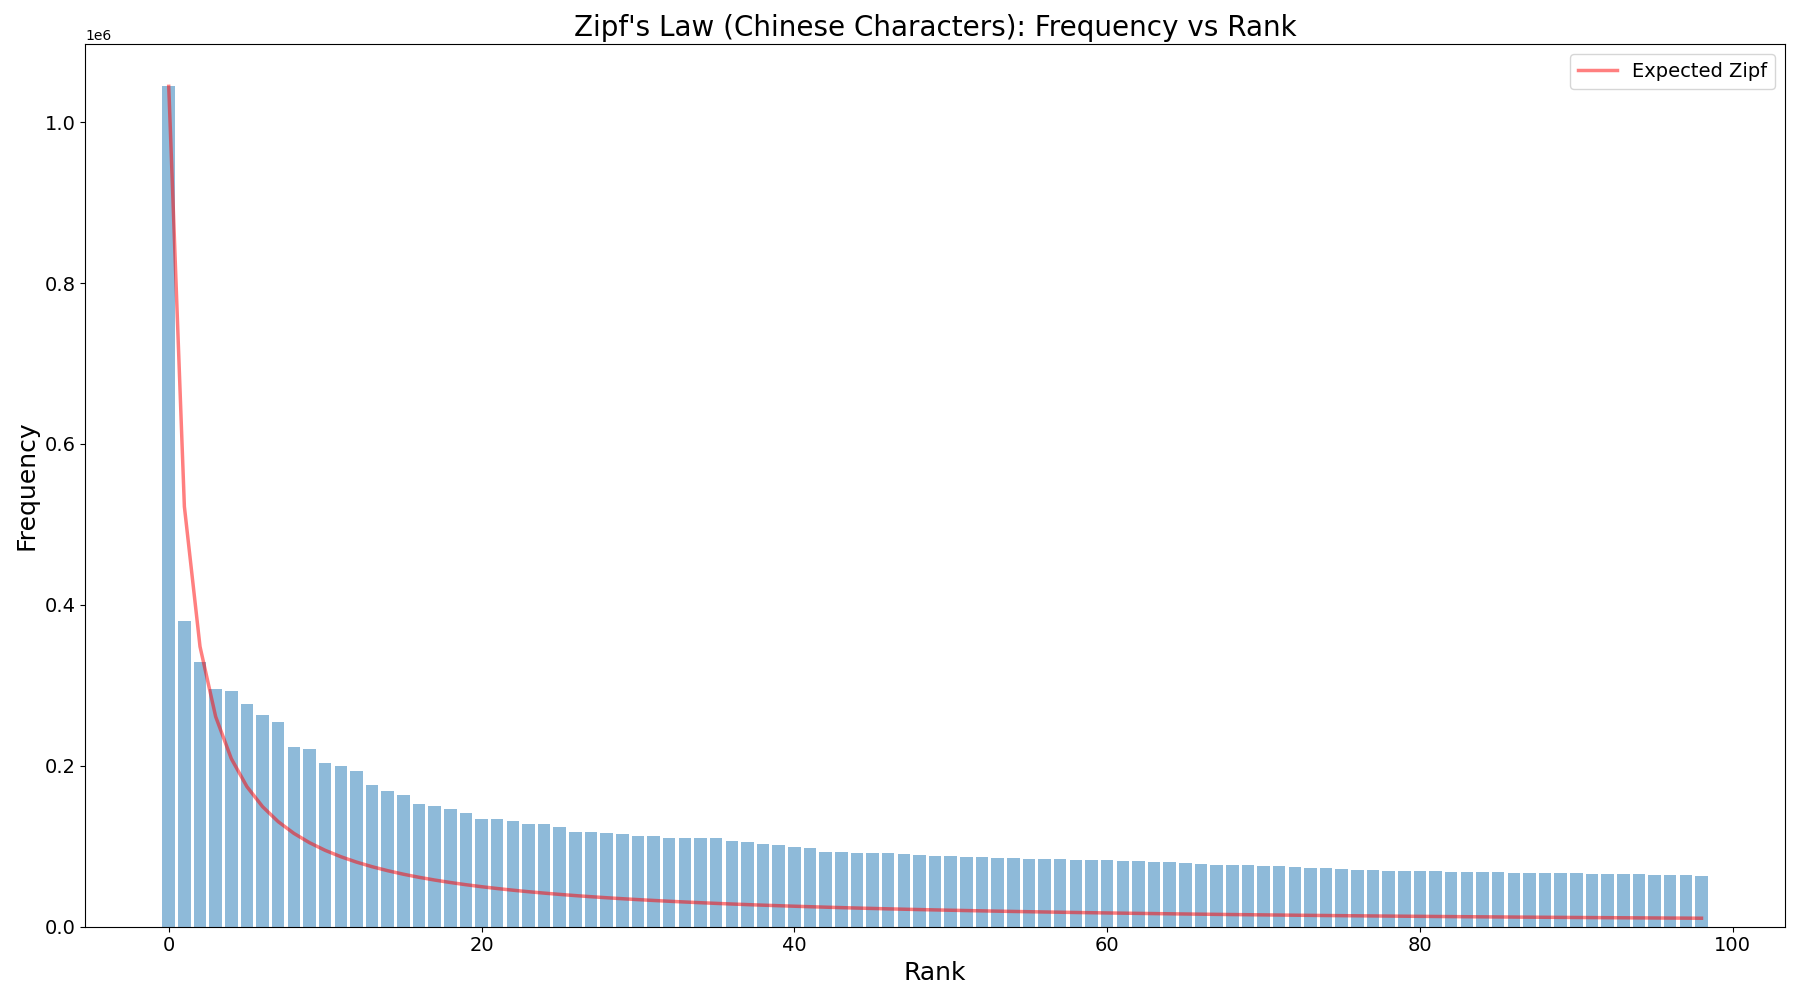
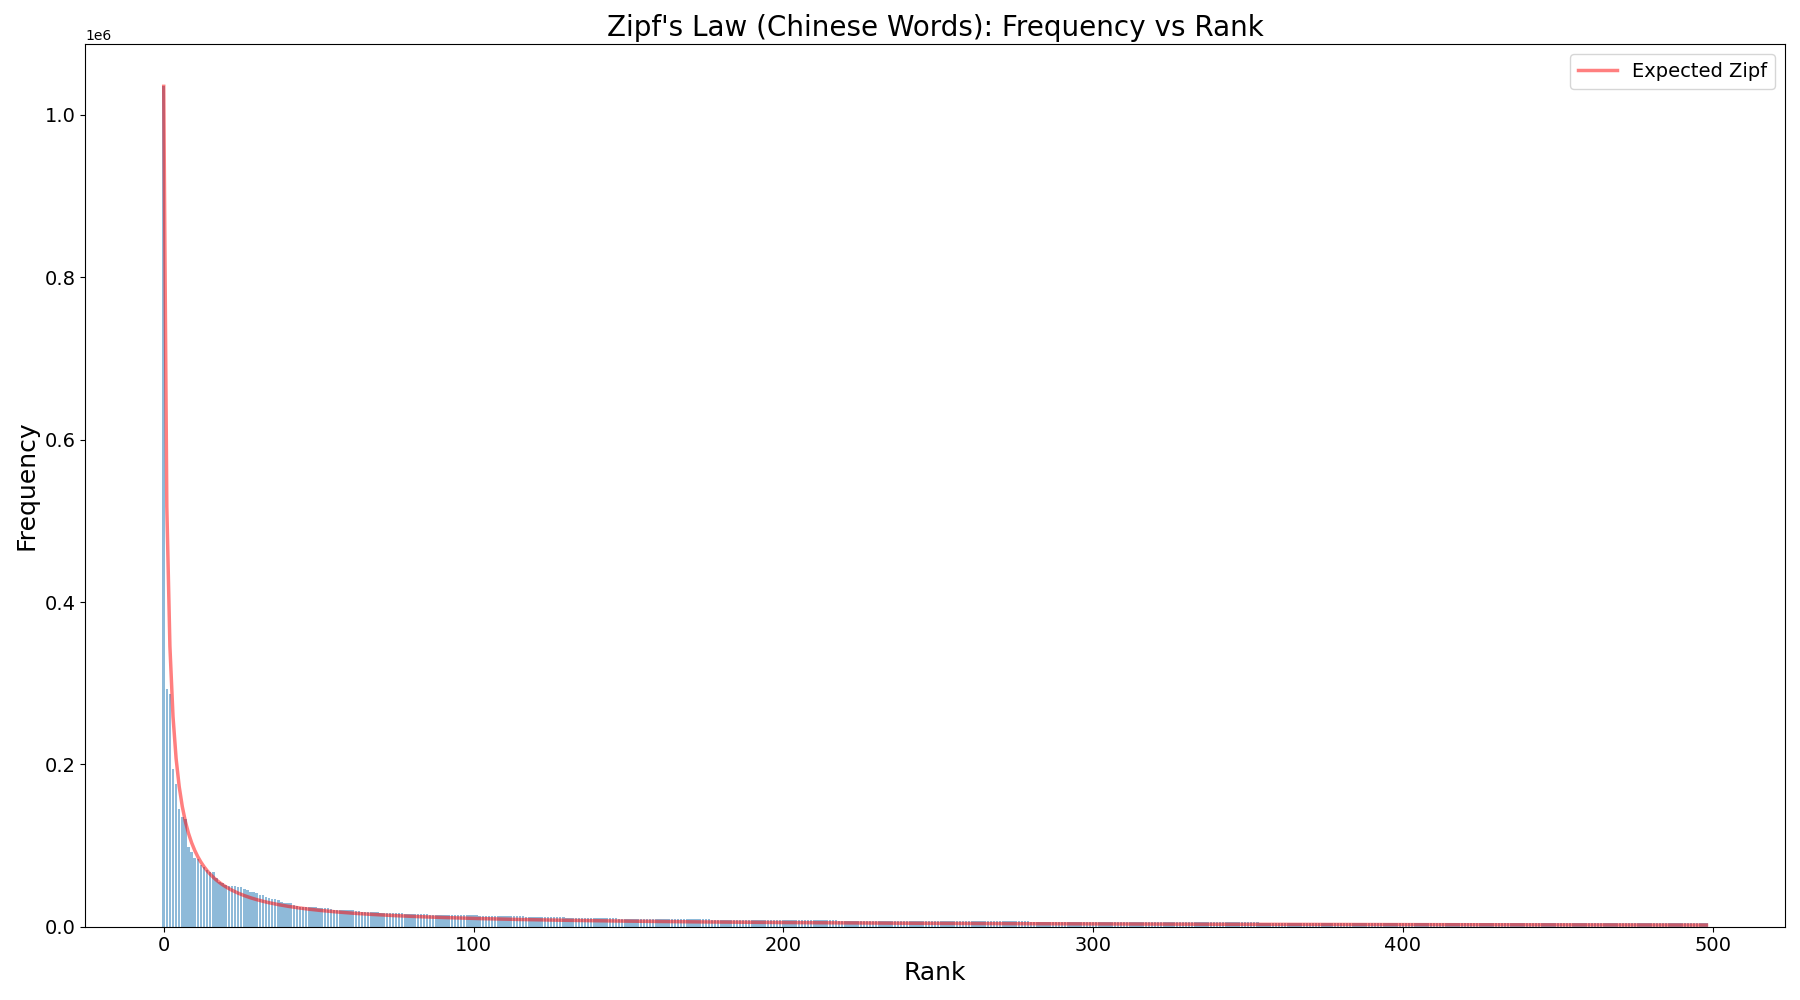
feature: word zipf law

Changed region(s): [[0.0622, 0.093, 0.9644, 0.961], [0.3111, 0.0, 0.7156, 0.062]]

diff --git a/zipflaw/verify.py b/zipflaw/verify.py
@@ -7,14 +7,14 @@ import argparse
 import json
 import math
 import os
-from util import tokenize_english_word, tokenize_char, traditional_to_simplified
+from util import tokenize_english_word, tokenize_char, traditional_to_simplified, tokenize_chinese_word
 from collections import Counter
 import matplotlib.pyplot as plt
 
 def parse_args():
     parser = argparse.ArgumentParser()
-    parser.add_argument('--crawl_data_path', default='../wikipedia_chinese/output.json', type=str, required=False)
-    parser.add_argument('--language', default='chinese', type=str, choices=['english', 'chinese'], required=False)
+    parser.add_argument('--crawl_data_path', default='../data/output_english.json', type=str, required=False)
+    parser.add_argument('--language', default='english', type=str, choices=['english', 'chinese'], required=False)
     return parser.parse_args()
 
 def load_crawl_data(crawl_data_path, language):
@@ -29,13 +29,16 @@ def load_crawl_data(crawl_data_path, language):
             corpus += content + " "
     return corpus.lower()
 
-def stat_corpus_word(corpus):
-    words = tokenize_english_word(corpus)
+def stat_corpus_word(corpus, language):
+    if language == 'english':
+        words = tokenize_english_word(corpus)
+    else:
+        words = tokenize_chinese_word(corpus)
     word_counter = Counter(words)
     sorted_word_counts = word_counter.most_common(500)
-    for item in sorted_word_counts:
+    for index, item in enumerate(sorted_word_counts):
         if item[0] == ' ':
-            item[0] = 'space'
+            sorted_word_counts.remove(item)
             break
     return sorted_word_counts
 
@@ -48,10 +51,7 @@ def stat_corpus_char(corpus, language):
         sorted_char_counts = char_counter.most_common()
     for index, item in enumerate(sorted_char_counts):
         if item[0] == ' ':
-            if language == 'chinese':
-                sorted_char_counts.remove(item)
-            else:
-                sorted_char_counts[index] = ('space', item[1])
+            sorted_char_counts.remove(item)
             break
     return sorted_char_counts
 
@@ -81,34 +81,34 @@ def plot_freq(counter, ax, title):
     ax.legend(fontsize=14)
     ax.tick_params(axis='both', which='major', labelsize=14)
 
-def plot_zipf_law_graphs_english(word_counter, char_counter):
-    # Plot the first graph (normal frequency)
-    fig1, (ax1, ax2) = plt.subplots(2, 1, figsize=(18, 16))
-    plot_freq(word_counter, ax1, f"Zipf's Law ({language.capitalize()} Words): Frequency vs Rank")
-    plot_freq(char_counter, ax2, f"Zipf's Law ({language.capitalize()} Characters): Frequency vs Rank")
-    plt.tight_layout()
-    plt.savefig(f'image/zipf_law_frequency_{language}.png')
-    plt.close(fig1)
+# def plot_zipf_law_graphs_english(word_counter, char_counter):
+#     # Plot the first graph (normal frequency)
+#     fig1, (ax1, ax2) = plt.subplots(2, 1, figsize=(18, 16))
+#     plot_freq(word_counter, ax1, f"Zipf's Law ({language.capitalize()} Words): Frequency vs Rank")
+#     plot_freq(char_counter, ax2, f"Zipf's Law ({language.capitalize()} Characters): Frequency vs Rank")
+#     plt.tight_layout()
+#     plt.savefig(f'image/zipf_law_frequency_{language}.png')
+#     plt.close(fig1)
 
-    # Plot the second graph (logarithmic frequency)
-    fig2, (ax3, ax4) = plt.subplots(2, 1, figsize=(18, 16))
-    plot_log_freq(word_counter, ax3, f"Zipf's Law ({language.capitalize()} Words): Frequency vs Rank (Log Scale)")
-    plot_log_freq(char_counter, ax4, f"Zipf's Law ({language.capitalize()} Characters): Frequency vs Rank (Log Scale)")
-    plt.tight_layout()
-    plt.savefig(f'image/zipf_law_log_frequency_{language}.png')
-    plt.close(fig2)
+#     # Plot the second graph (logarithmic frequency)
+#     fig2, (ax3, ax4) = plt.subplots(2, 1, figsize=(18, 16))
+#     plot_log_freq(word_counter, ax3, f"Zipf's Law ({language.capitalize()} Words): Frequency vs Rank (Log Scale)")
+#     plot_log_freq(char_counter, ax4, f"Zipf's Law ({language.capitalize()} Characters): Frequency vs Rank (Log Scale)")
+#     plt.tight_layout()
+#     plt.savefig(f'image/zipf_law_log_frequency_{language}.png')
+#     plt.close(fig2)
 
-def plot_zipf_law_graphs_chinese(char_counter):
+def plot_zipf_law_graphs_chinese(word_counter, language):
     # Plot the first graph (normal frequency)
     fig1, ax1 = plt.subplots(figsize=(18, 10))
-    plot_freq(char_counter, ax1, f"Zipf's Law ({language.capitalize()} Characters): Frequency vs Rank")
+    plot_freq(word_counter, ax1, f"Zipf's Law ({language.capitalize()} Words): Frequency vs Rank")
     plt.tight_layout()
     plt.savefig(f'image/zipf_law_frequency_{language}.png')
     plt.close(fig1)
 
     # Plot the second graph (logarithmic frequency)
     fig2, ax2 = plt.subplots(figsize=(18, 10))
-    plot_log_freq(char_counter, ax2, f"Zipf's Law ({language.capitalize()} Characters): Frequency vs Rank (Log Scale)")
+    plot_log_freq(word_counter, ax2, f"Zipf's Law ({language.capitalize()} words): Frequency vs Rank (Log Scale)")
     plt.tight_layout()
     plt.savefig(f'image/zipf_law_log_frequency_{language}.png')
     plt.close(fig2)
@@ -183,21 +183,19 @@ if __name__ == '__main__':
         raise ValueError(f'File not found: {crawl_data_path}')
     corpus = load_crawl_data(crawl_data_path, language)
     if language == 'english':
-        word_counter = stat_corpus_word(corpus)
+        word_counter = stat_corpus_word(corpus, language)
         char_counter = stat_corpus_char(corpus, language)
     else:
-        word_counter = None
+        word_counter = stat_corpus_word(corpus, language)
         char_counter = stat_corpus_char(corpus, language)
 
     # Call the functions
-    output_statistics(char_counter, word_counter, language)
-    if language == 'english':
-        plot_zipf_law_graphs_english(word_counter, char_counter)
-    else:
-        plot_zipf_law_graphs_chinese(char_counter)
-    entropy = compute_char_entropy(char_counter)
-    print(f"Entropy of {language.capitalize()} characters: {entropy:.2f} bits")
+    # output_statistics(char_counter, word_counter, language)
 
-    plot_entropy_vs_data_scale(corpus, language)
-    print(f"Entropy vs Data Scale plot saved as 'entropy_vs_data_scale_{language}.png'")
+    plot_zipf_law_graphs_chinese(word_counter, language)
+    # entropy = compute_char_entropy(char_counter)
+    # print(f"Entropy of {language.capitalize()} characters: {entropy:.2f} bits")
+
+    # plot_entropy_vs_data_scale(corpus, language)
+    # print(f"Entropy vs Data Scale plot saved as 'entropy_vs_data_scale_{language}.png'")
 

diff --git a/zipflaw/util.py b/zipflaw/util.py
@@ -1,4 +1,5 @@
 import re
+import jieba
 
 def clean_text(text):
     return re.sub(r'[^a-zA-Z]+', ' ', text)
@@ -9,6 +10,11 @@ def clean_chinese_text(text):
 def tokenize_english_word(text):
     cleaned_text = clean_text(text)
     words = cleaned_text.split()
+    return words
+
+def tokenize_chinese_word(text):
+    cleaned_text = clean_chinese_text(text)
+    words = jieba.lcut(cleaned_text)
     return words
 
 def tokenize_char(text, language):
